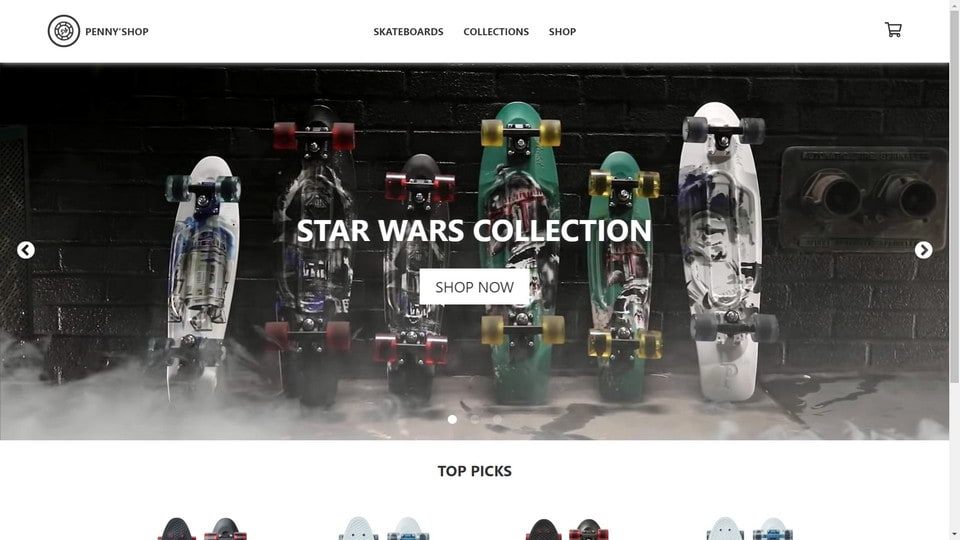
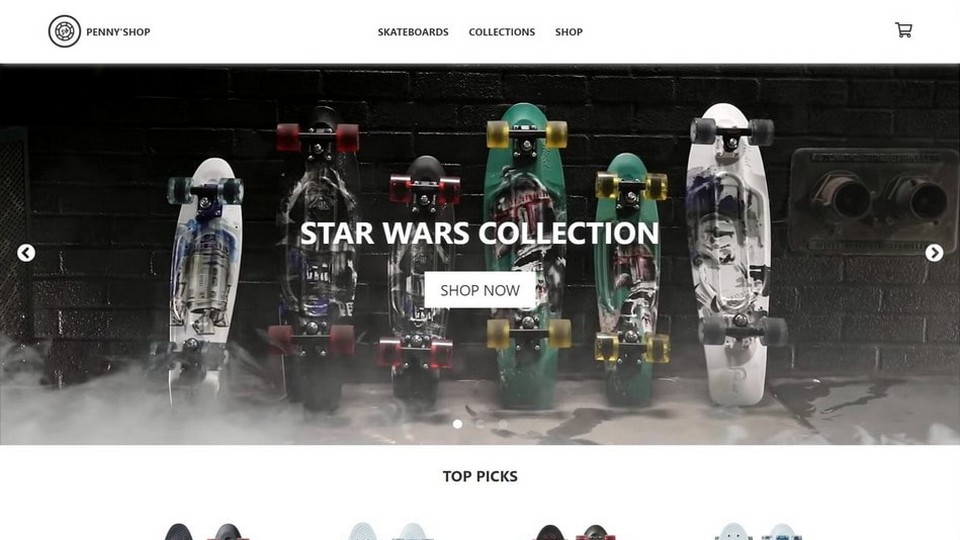
optimized project images

diff --git a/src/components/Projects/data.jsx b/src/components/Projects/data.jsx
@@ -11,7 +11,7 @@ export const projectsData = [
     ],
     url: "https://jfrprod.netlify.app/",
     repo: "https://github.com/vinwik/photograph-portfolio",
-    img: "img/jfr-prod.png",
+    img: "img/jfr-prod.jpg",
   },
   {
     title: "Mealize",
